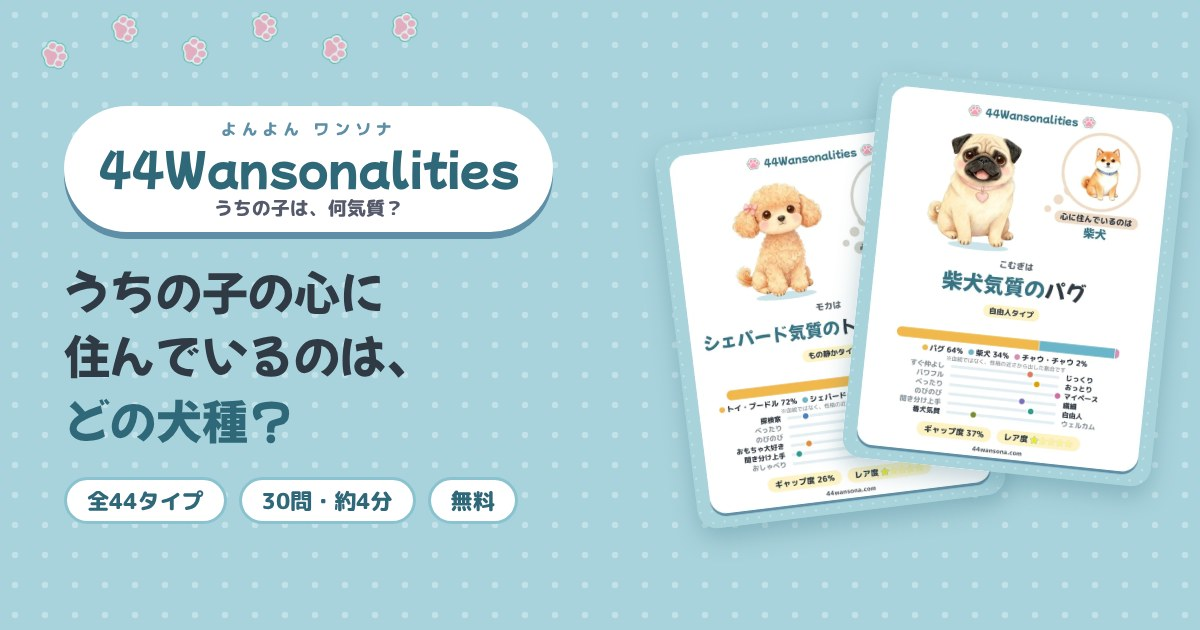
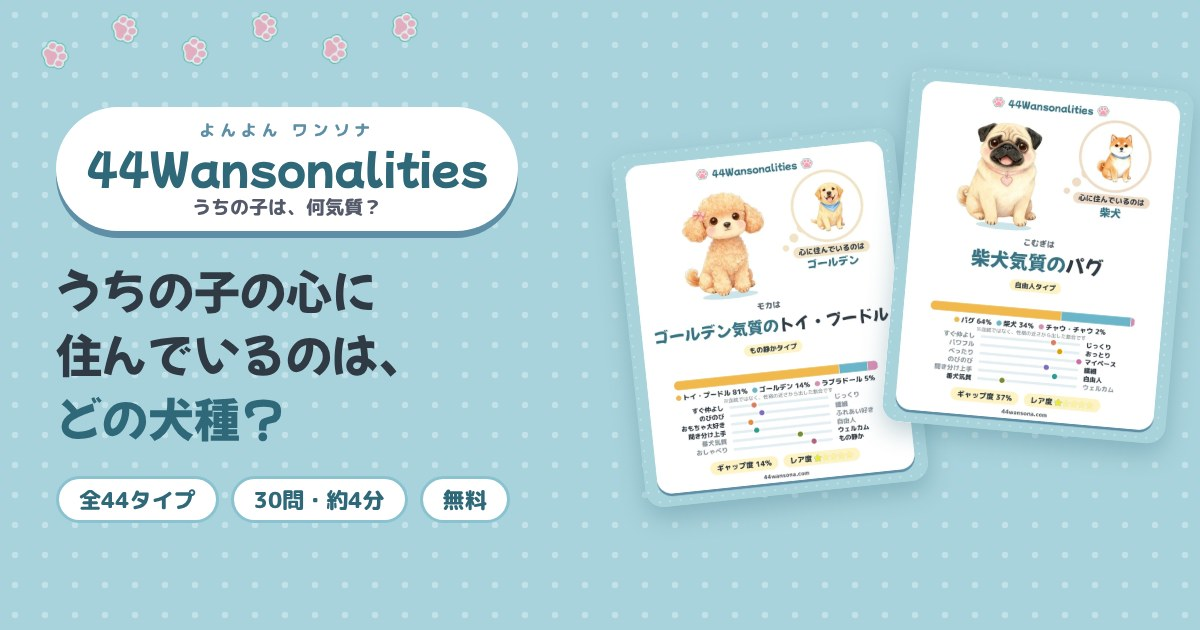
LPの例「シェパード気質のトイ・プードル」を「ゴールデン気質のトイ・プードル」に。シェア画像も作り直し
Claude-Session: https://claude.ai/code/session_01VNhb2mPii8GMuwudjdkqsa

diff --git a/dog-shindan/lp.html b/dog-shindan/lp.html
@@ -151,7 +151,7 @@ img{max-width:100%}
   <div class="steps" aria-hidden="true"><img src="icon/paw.png" alt=""><img src="icon/paw.png" alt=""><img src="icon/paw.png" alt=""><img src="icon/paw.png" alt=""><img src="icon/paw.png" alt=""><img src="icon/paw.png" alt=""><img src="icon/paw.png" alt=""></div>
   <div class="bubble"><h1><ruby>44<em>Wansonalities</em><rt>よんよん ワンソナ</rt></ruby></h1><small>うちの子は、何気質？</small></div>
   <div class="fan" aria-label="結果カードの例">
-    <img src="lp/card-toypoodle.webp" alt="モカはシェパード気質のトイ・プードル、の結果カード"><img src="lp/card-pug.webp" alt="こむぎは柴犬気質のパグ、の結果カード">
+    <img src="lp/card-toypoodle.webp" alt="モカはゴールデン気質のトイ・プードル、の結果カード"><img src="lp/card-pug.webp" alt="こむぎは柴犬気質のパグ、の結果カード">
   </div>
   <p class="hero-q"><span class="nw">うちの子の心に</span><span class="nw">住んでいるのは、</span><span class="nw"><em>どの犬種？</em></span></p>
 </header>
